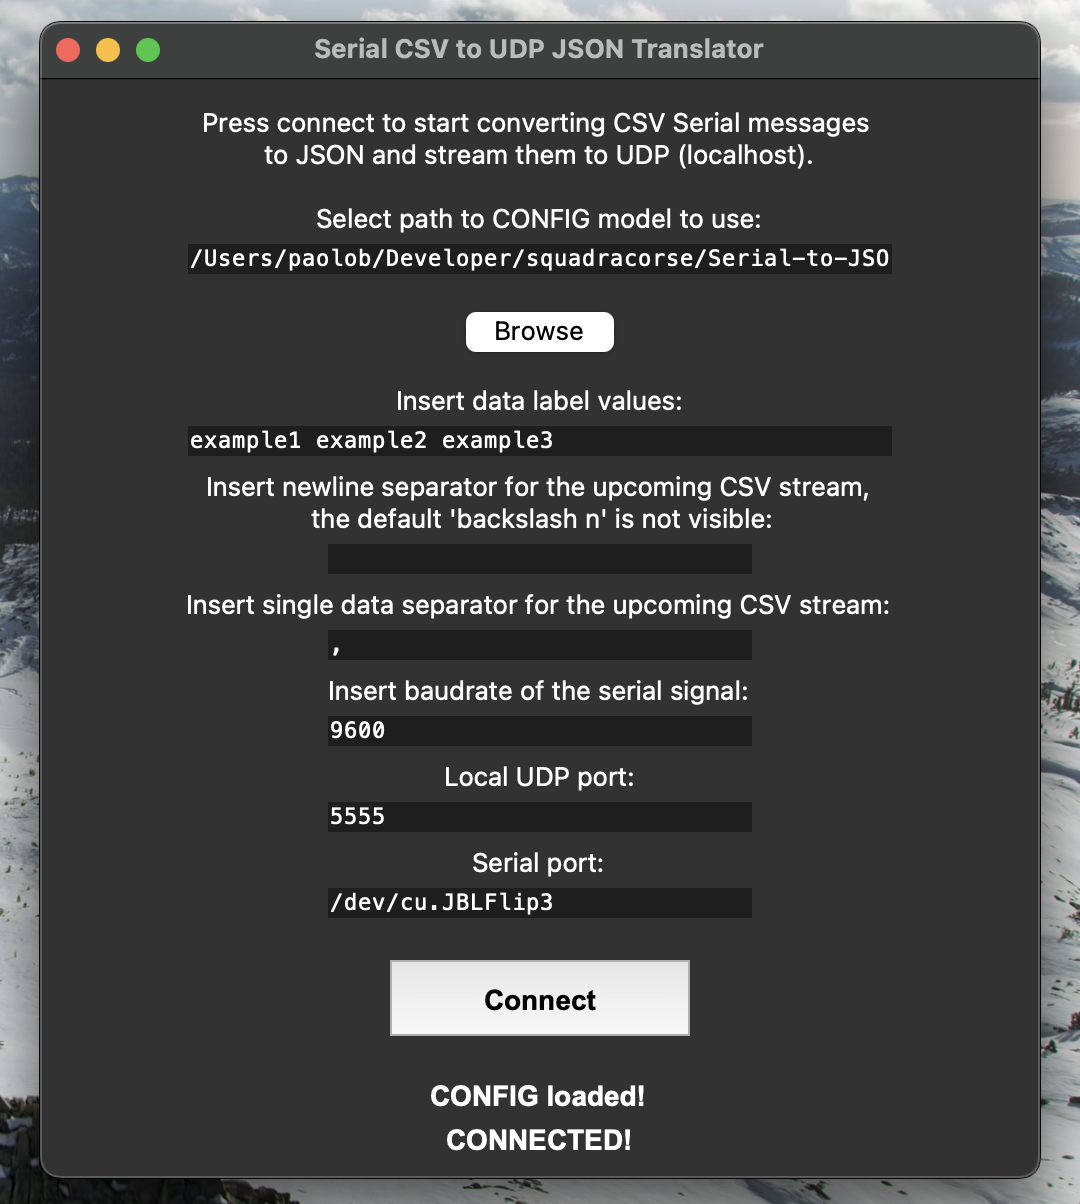
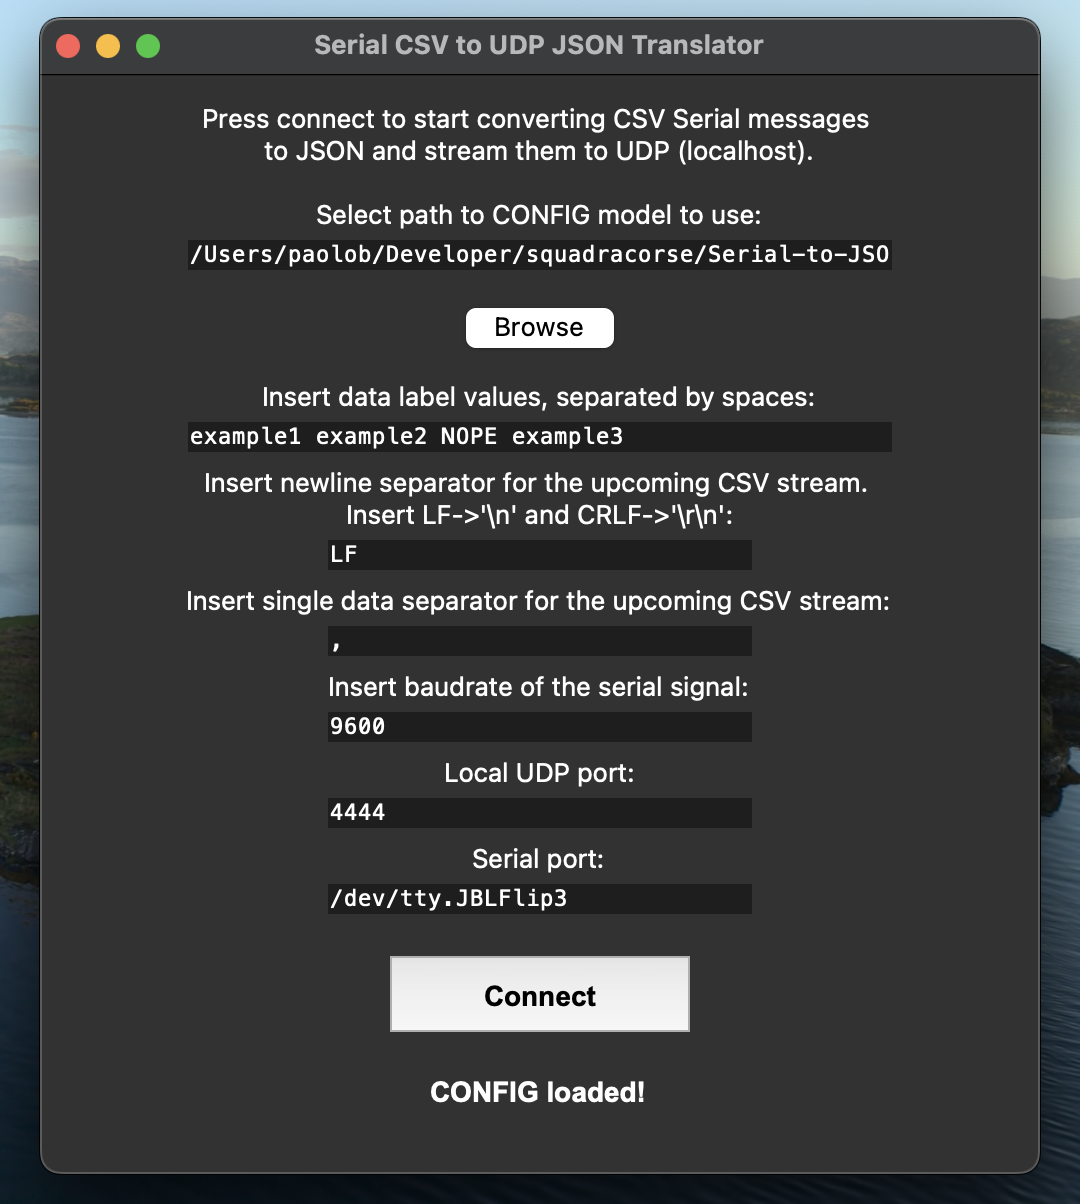
v2.2

diff --git a/main.py b/main.py
@@ -12,11 +12,11 @@ class GUI:
         # Config parameters
         self.PATH_CONFIG_MODEL = "Path"
         self.VALUES=['example1','example2','example3']
-        self.NEWLINE=b';'
-        self.SEPARATOR=b','
+        self.NEWLINE=';'
+        self.SEPARATOR=','
         self.BAUDRATE=9600
         self.UDP_PORT=5000
-        self.SERIAL_PORT=b'/dev/ttyUSB0'
+        self.SERIAL_PORT='/dev/ttyUSB0'
 
         # Flag
         self.connected = False
@@ -49,14 +49,14 @@ class GUI:
         self.browse_button_config_model.pack(pady=10)
 
         # Values
-        self.label_values = tk.Label(self.app, text="Insert data label values:")
+        self.label_values = tk.Label(self.app, text="Insert data label values, separated by spaces:")
         self.label_values.pack()
         self.textbox_values = tk.Text(self.app, height=1, width=50)
         self.textbox_values.insert("1.0", self.VALUES)                        
         self.textbox_values.pack()
 
         # Newline
-        self.label_newline = tk.Label(self.app, text="Insert newline separator for the upcoming CSV stream:")
+        self.label_newline = tk.Label(self.app, text="Insert newline separator for the upcoming CSV stream. \nInsert LF->'\\n' and CRLF->'\\r\\n':")
         self.label_newline.pack()
         self.textbox_newline = tk.Text(self.app, height=1, width=30)
         self.textbox_newline.insert("1.0", self.NEWLINE)                        

diff --git a/backend/functions.py b/backend/functions.py
@@ -51,6 +51,13 @@ def open_stream_udp(UDP_PORT):
 # Read data from the serial port
 def read_serial_data(ser_socket, udp_socket, VALUES, NEWLINE, SEPARATOR, UDP_PORT):
     data_buffer = ""
+
+    # NEWLINE translation of special characters
+    if NEWLINE == "LF":
+        NEWLINE = "\n"
+    elif NEWLINE == "CRLF":
+        NEWLINE = "\r\n"
+
     def read_data_handler(data_buffer):
         while True:
             try:

diff --git a/README.md b/README.md
@@ -25,7 +25,7 @@ BAUDRATE=9600
 UDP_PORT=5000
 SERIAL_PORT=/dev/ttyUSB0
 ```
-The 'VALUES' params separated by a space indicate the order of the values in the CSV string. The 'NULL' value indicates that the value is not going to be sent, but discarded when the CSV comes into the program. The 'NEWLINE' param indicates the character that separates the CSV strings, the usage of '\n' is not currently supported. The 'SEPARATOR' param indicates the character that separates the values in the CSV string. The 'BAUDRATE' param indicates the baudrate of the serial port. The 'UDP_PORT' param indicates the port of the UDP server. The 'SERIAL_PORT' param indicates the serial port to use.
+The 'VALUES' params separated by a space indicate the order of the values in the CSV string. The 'NULL' value indicates that the value is not going to be sent, but discarded when the CSV comes into the program. The 'NEWLINE' param indicates the character that separates the CSV strings, the usage of '\n' as a NEWLINE can be achieved via the 'LF' symbol and the '\r\n' via the 'CRLF' one (ex: NEWLINE=LF). The 'SEPARATOR' param indicates the character that separates the values in the CSV string. The 'BAUDRATE' param indicates the baudrate of the serial port. The 'UDP_PORT' param indicates the port of the UDP server. The 'SERIAL_PORT' param indicates the serial port to use.
 
 With the configuration shown above you can send the following JSON (assuming CSV data is: 1,2,3,4\n):
 ```json
